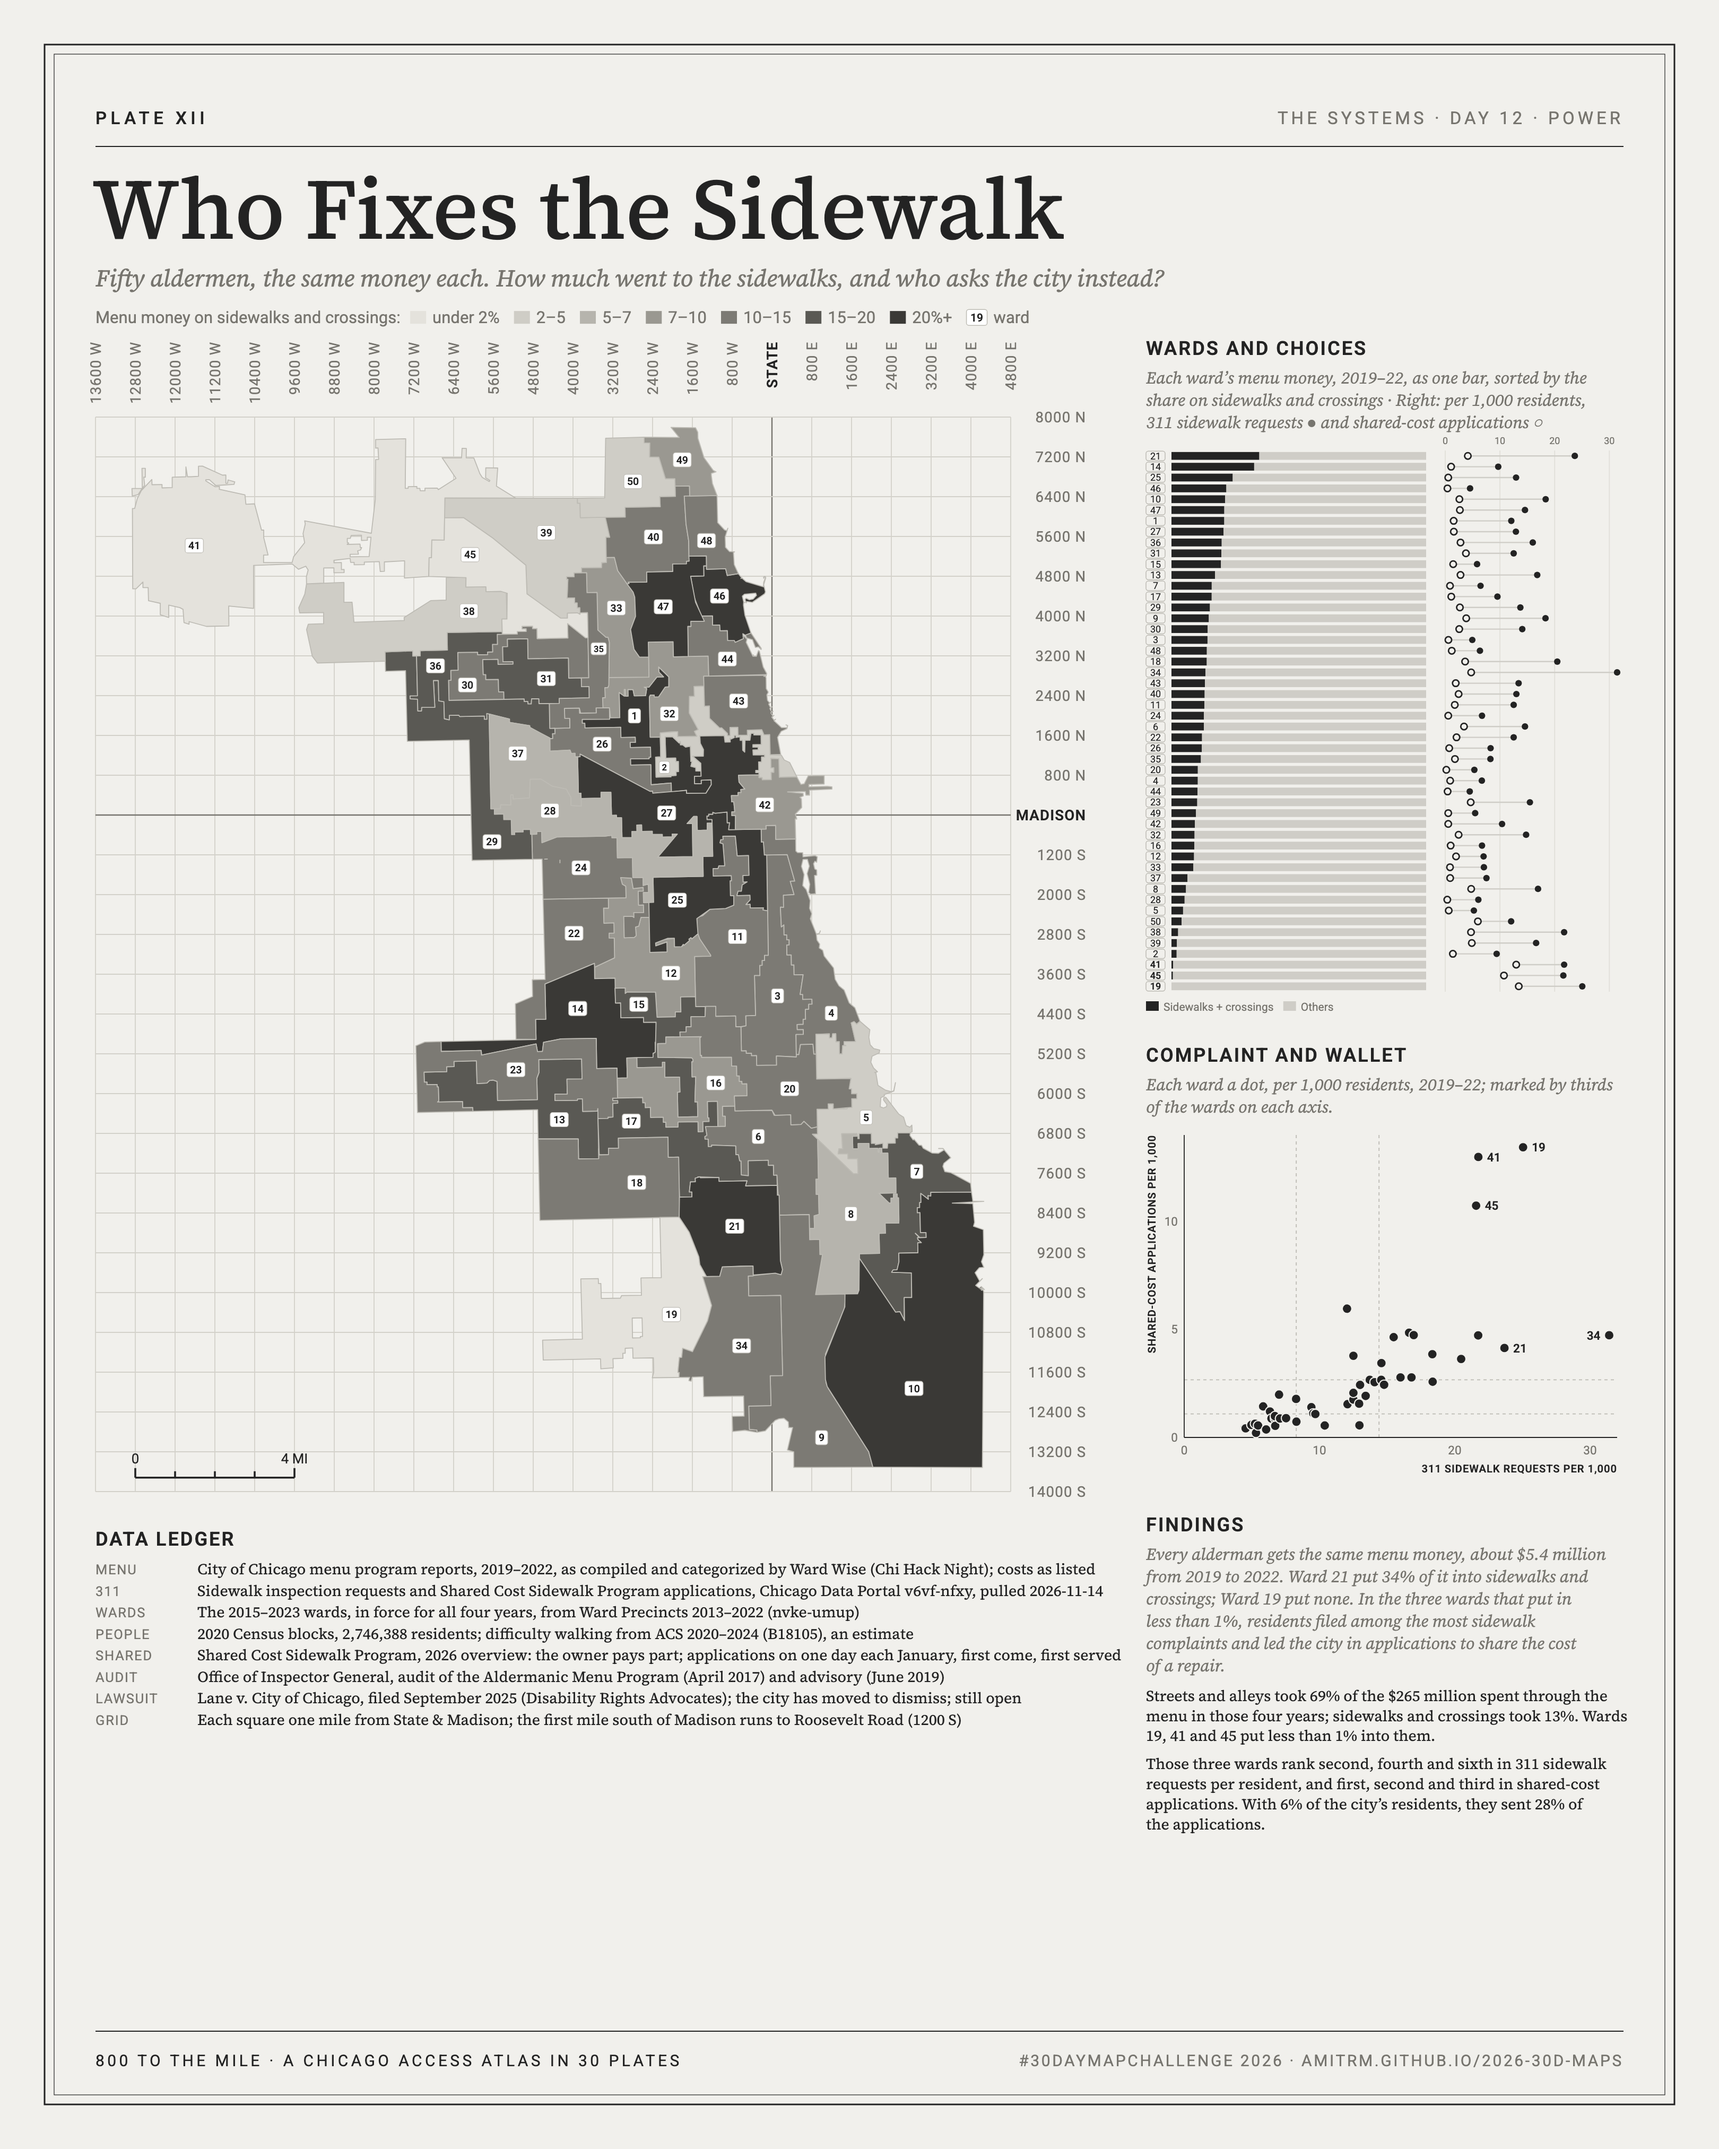
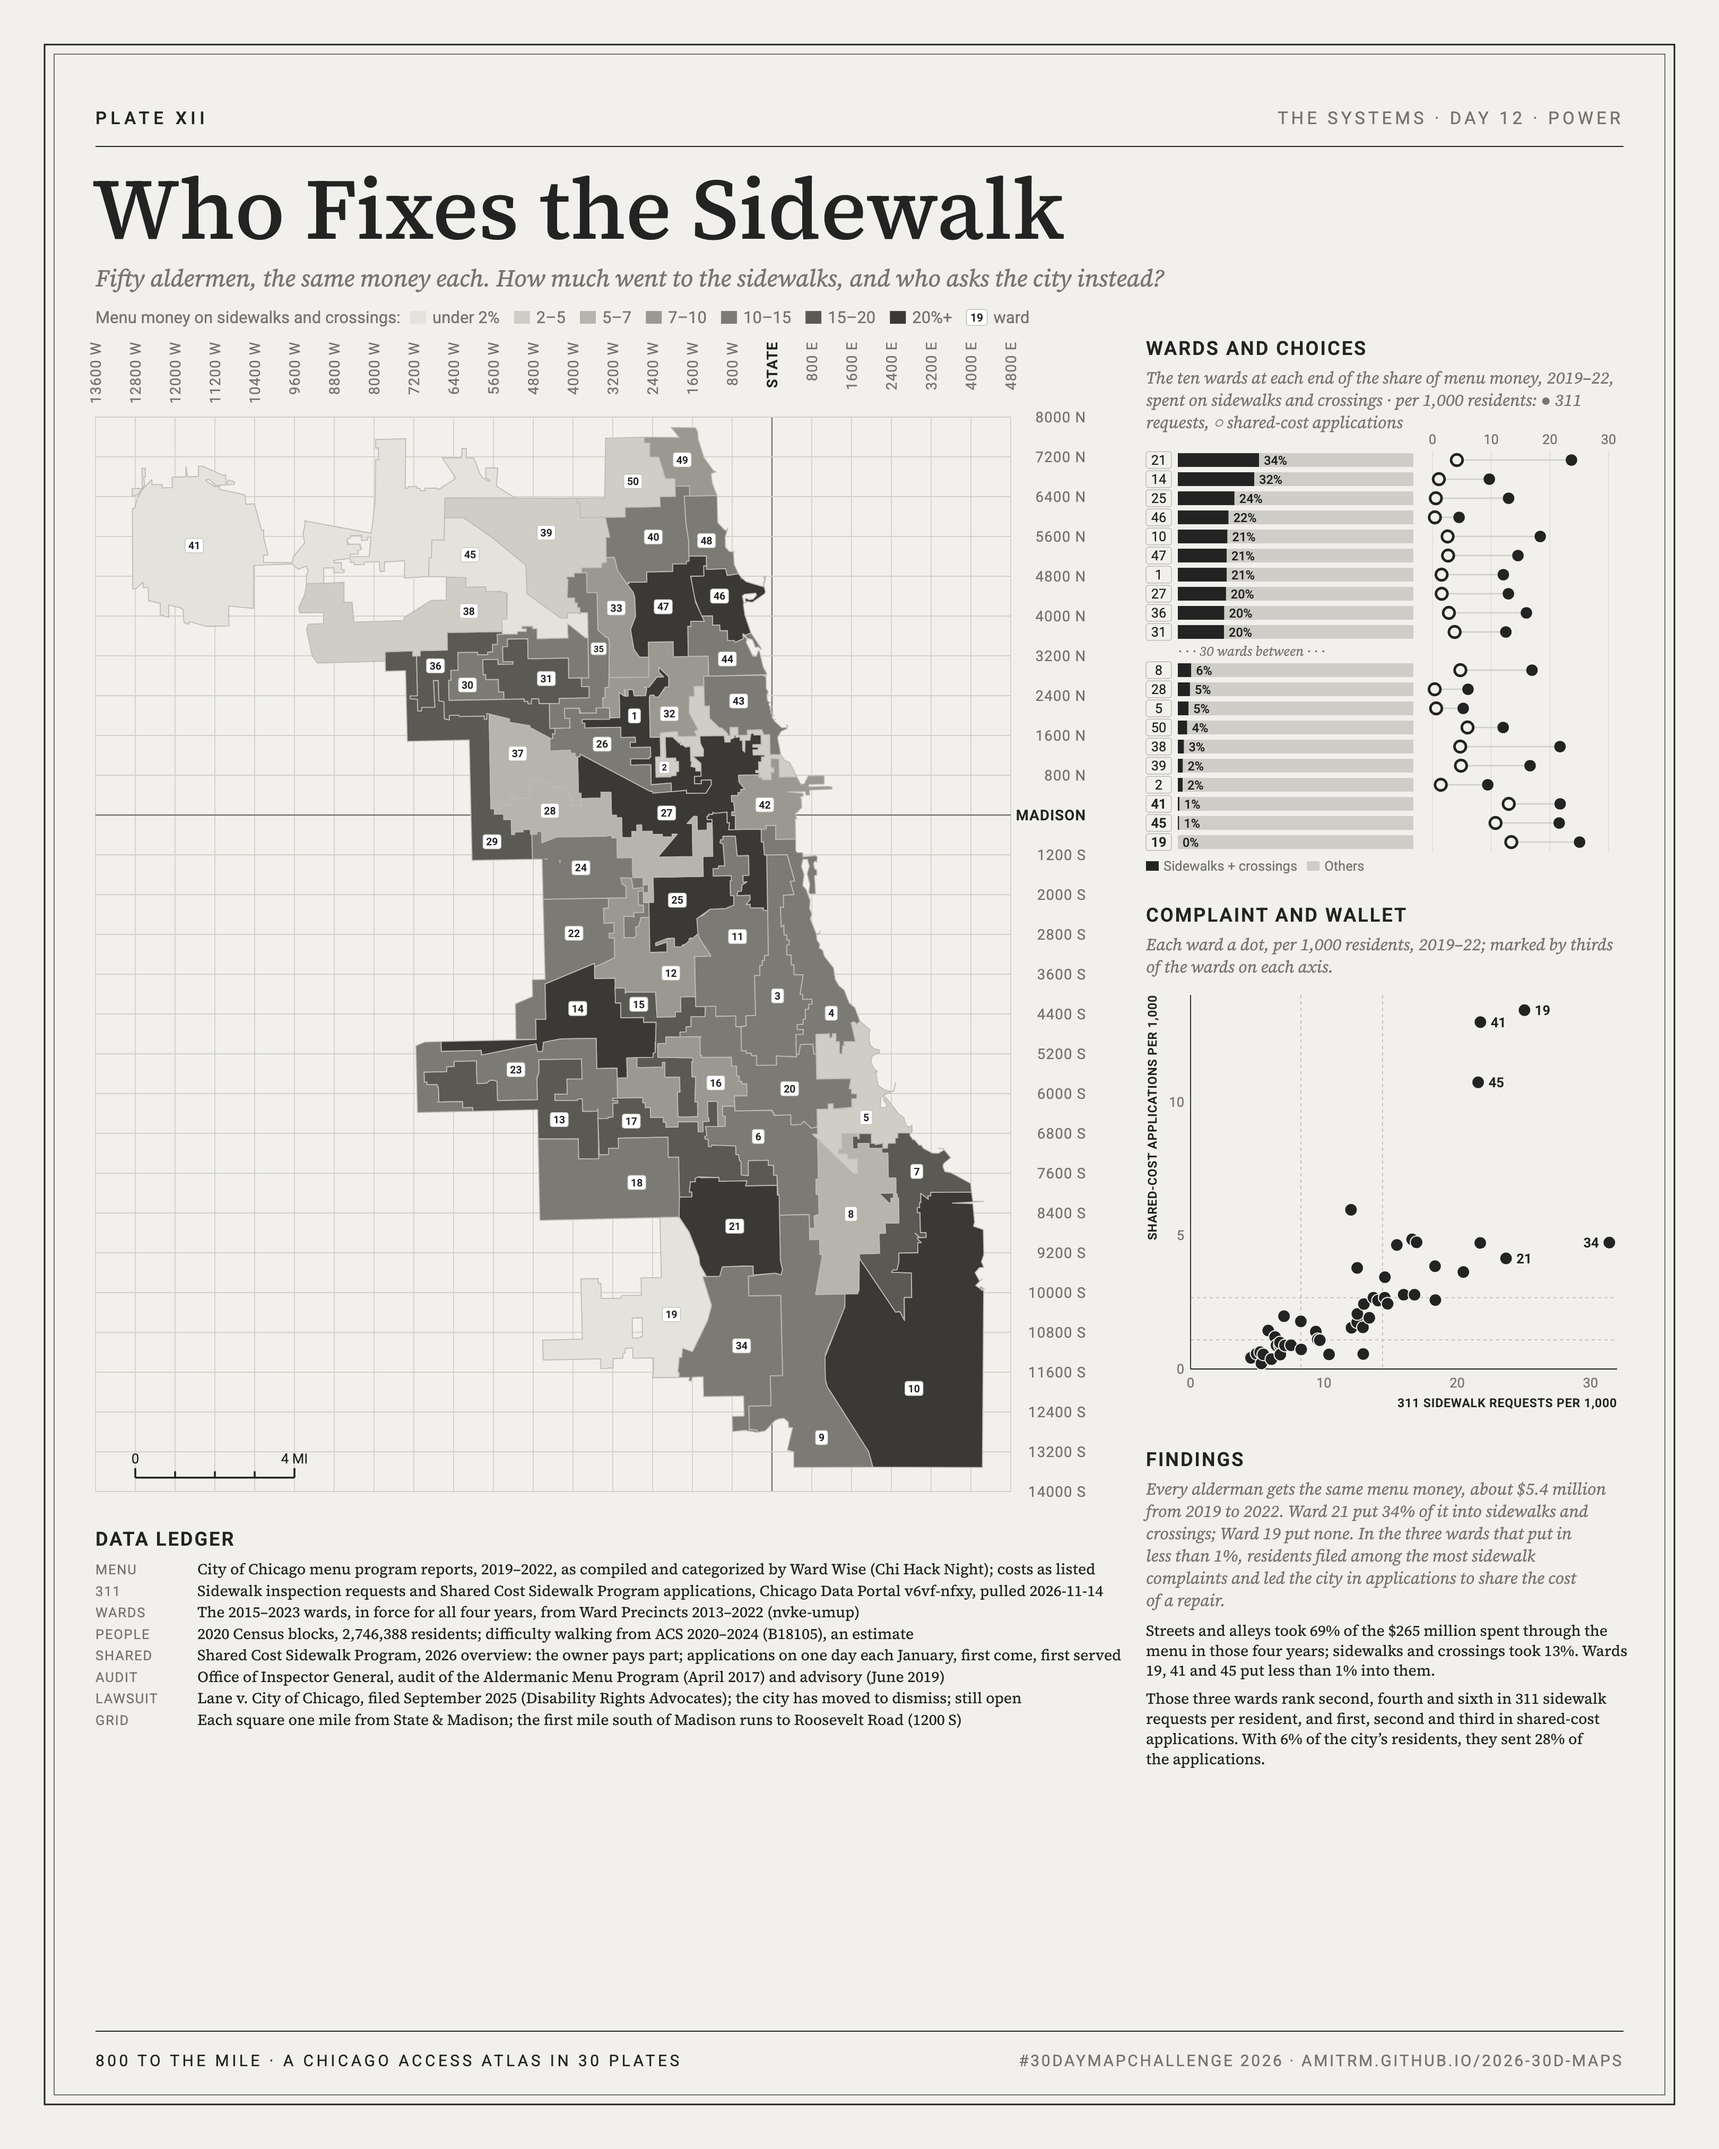
Day 12: plate charts in the page design
Wards and Choices on the plate shows the ten wards at each end with the two spending groups,
boxed ward numbers and the dots; Complaint and Wallet uses the page's design at plate size.

Changed region(s): [[0.6546, 0.1556, 0.9352, 0.5911], [0.6546, 0.56, 0.9352, 0.8711], [0.8728, 0.4356, 0.9352, 0.4667]]

diff --git a/src/plates/day12.js b/src/plates/day12.js
@@ -13,7 +13,7 @@ import { gridLines, formatAddress, toMiles } from '../lib/grid.js';
 // teal on the map and on the chart's sidewalk bars, Stevens' purple-gold in the scatter.
 export const W_COL = 300;
 export const CHART_TITLE = 'Wards and Choices';
-export const CHART_NOTE = 'Each ward’s menu money, 2019–22, as one bar, sorted by the share on sidewalks and crossings · Right: per 1,000 residents, 311 sidewalk requests ● and shared-cost applications ○';
+export const CHART_NOTE = 'The ten wards at each end of the share of menu money, 2019–22, spent on sidewalks and crossings · per 1,000 residents: ● 311 requests, ○ shared-cost applications';
 export const INSET_TITLE = 'Complaint and Wallet';
 // the map's seven classes of menu share (breaks in plate.json: 2, 5, 7, 10, 15, 20%), light to dark
 export const MAP_TONES = ['#E4E2DC', '#CFCDC6', '#B6B4AD', '#9A9891', '#7C7A74', '#5A5954', '#3A3936'];
@@ -211,14 +211,17 @@ export function renderDay12(data, { mode = 'gray', variant = 'plate', palette, c
     // page chart options: width, row, font, cats ('two' | 'three' | 'all'), dots, top (N wards each end)
     // the page chart (chosen 2026-11-14, option B of .private/day12-middle-study): drawn 1:1 in the 259 px
     // column at 10 px, the 10 wards that spent most and the 10 that spent least (user), two spending groups with the
-    // sidewalk share printed, the dots kept. The plate keeps all 50 rows, also in the two groups.
-    const co = isChart ? { width: 253, row: 14, font: 10, cats: 'two', dots: true, top: 10, ...chartOpts } : { cats: 'two', dots: true, top: 0 };
-    const cw = isChart ? co.width : W_COL;
-    const row = isChart ? co.row : 6.8;
-    const cs = isChart ? co.font : 6;
-    const numW = isChart ? Math.round(cs * 1.9) : 12;
+    // sidewalk share printed, the dots kept. The plate (export) uses the same design (user, 2026-11-14),
+    // sized for its 300-wide margin column.
+    const co = isChart
+      ? { width: 253, row: 14, font: 10, cats: 'two', dots: true, top: 10, ...chartOpts }
+      : { width: W_COL, row: 12, font: 8.5, cats: 'two', dots: true, top: 10 };
+    const cw = co.width;
+    const row = co.row;
+    const cs = co.font;
+    const numW = Math.round(cs * 1.9);
     const barX = mx + numW + 4;
-    const barW = isChart ? (co.dots ? Math.round((cw - numW) * 0.52) : cw - numW - 6) : 160;
+    const barW = co.dots ? Math.round((cw - numW) * 0.52) : cw - numW - 6;
     const dotX0 = barX + barW + 12, dotX1 = mx + cw - 2;
     // spending groups (user, 2026-11-14: two, 'Sidewalks + crossings' and 'Others' in the streets' gray);
     // 'three' and 'all' kept for studies
@@ -264,7 +267,7 @@ export function renderDay12(data, { mode = 'gray', variant = 'plate', palette, c
         if (ww > 0.05) out.push(`<rect x="${x.toFixed(2)}" y="${(uy + row * 0.14).toFixed(2)}" width="${ww.toFixed(2)}" height="${(row * 0.72).toFixed(2)}" fill="${co.cats !== 'all' ? fill3[c] : catFill(c)}"/>`);
         x += ww;
       }
-      if (co.cats !== 'all' && isChart) out.push(text(barX + barW * (catVal(w, 'walk') / w.total) + 3, cy + cs * 0.34, pct(w.share), { size: cs * 0.92, fill: C.ink, weight: 500 }));
+      if (co.cats !== 'all') out.push(text(barX + barW * (catVal(w, 'walk') / w.total) + 3, cy + cs * 0.34, pct(w.share), { size: cs * 0.92, fill: C.ink, weight: 500 }));
       if (!co.dots) { if (hooks) out.push('</g>'); uy += row; continue; }
       const a = dx(w.filed1k), b = dx(w.shared1k), r = row * 0.3;
       // colour mode: the row behind the dots takes the ward's colour in the scatter (its bivariate
@@ -279,11 +282,11 @@ export function renderDay12(data, { mode = 'gray', variant = 'plate', palette, c
     // key for the bar
     uy += 6;
     let kx = mx;
-    const ks = isChart ? cs : 7;
+    const ks = cs;
     CATS_USED.forEach((c, i) => {
       const lab = co.cats !== 'all' ? lab3[c] : CAT_LABEL[c];
       const kw = 11 + textWidth(lab, ks) + (isChart ? 10 : 6);
-      if (isChart && kx > mx && kx + kw > mx + cw) { kx = mx; uy += ks + 5; } // wrap the key to the width
+      if (kx > mx && kx + kw > mx + cw) { kx = mx; uy += ks + 5; } // wrap the key to the width
       out.push(`<rect x="${kx}" y="${uy}" width="8" height="6" fill="${co.cats !== 'all' ? fill3[c] : catFill(c)}"${c === 'other' ? ` stroke="${C.frame}" stroke-width="0.5"` : ''}/>`);
       out.push(text(kx + 11, uy + 6, lab, { size: ks, fill: C.pencil }));
       kx += kw;
@@ -309,11 +312,11 @@ export function renderDay12(data, { mode = 'gray', variant = 'plate', palette, c
   }
   const io = { width: 259, height: 250, font: 11, ...insetOpts }; // the page scatter: 1:1 in the 259 px column
   const iw = isInset ? io.width : W_COL;
-  const fs = isInset ? io.font : 7.5;
-  const padL = isInset ? Math.round(io.font * 3.3) : 24, padB = isInset ? 34 : 28;
+  const fs = isInset ? io.font : 8.5; // the plate's scatter: the page's design at the plate's text size
+  const padL = Math.round(fs * 3.3), padB = isInset ? 34 : 28;
   const top0 = isInset ? 8 : ty + noteH + 18;
   const x0 = (isInset ? 0 : mx) + padL, x1 = (isInset ? 0 : mx) + iw - 4;
-  const ph = isInset ? io.height : 190;
+  const ph = isInset ? io.height : 235;
   const y1 = top0, y0 = top0 + ph; // y0 = the axis at the bottom
   const XMAX = 32, YMAX = 14;
   const sq = isInset && io.scale === 'sqrt'; // page option: square-root axes spread the crowded low corner
@@ -335,7 +338,7 @@ export function renderDay12(data, { mode = 'gray', variant = 'plate', palette, c
   out.push(text(x1, y0 + 2 * fs + 7, '311 SIDEWALK REQUESTS PER 1,000', { size: fs * 0.9, anchor: 'end', spacing: 0.3, weight: 600 }));
   const yt = x0 - padL + fs * 0.8;
   out.push(text(yt, y1, 'SHARED-COST APPLICATIONS PER 1,000', { size: fs * 0.9, anchor: 'end', spacing: 0.3, weight: 600, rotate: -90 }));
-  const r = isInset ? io.font * 0.47 : 3;
+  const r = fs * 0.47;
   const named = new Set([...summary.low, summary.top.ward, [...wards].sort((a, b) => b.filed1k - a.filed1k)[0].ward]);
   for (const w of [...wards].sort((a, b) => a.filed1k - b.filed1k)) {
     const cx = SX(Math.min(w.filed1k, XMAX)), cy = SY(Math.min(w.shared1k, YMAX));

diff --git a/src/plates/index.js b/src/plates/index.js
@@ -436,7 +436,7 @@ const d12Story = {
     ['Background', [
       `The CTA runs the trains and the buses. The block between a rider’s front door and the stop belongs to the city, and in Chicago much of what gets fixed on it is chosen ward by ward. Each of the 50 aldermen gets the same sum of “menu” money every year (${d12M(d12.alloc['2019'])} in 2019, ${d12M(d12.alloc['2021'])} from 2021) and picks which streets, alleys, lights and sidewalks in the ward it pays for.`,
       `This plate maps those choices from ${d12.years[0]} to ${d12.years[1]}, the last four full years on one ward map. Each ward is shaded by the share of its menu money that went to sidewalks and crossings.`,
-      'Residents have two other ways to get a sidewalk fixed: a 311 request for an inspection, or an application to the Shared Cost Sidewalk Program, in which the owner pays part of the repair. The Complaint and Wallet chart plots the two against each other, each ward a dot. Wards and Choices shows the ten wards at each end here, and all fifty on the plate. Hover a ward on the map, a row or a dot for its numbers; the same ward lights up in all three.',
+      'Residents have two other ways to get a sidewalk fixed: a 311 request for an inspection, or an application to the Shared Cost Sidewalk Program, in which the owner pays part of the repair. The Complaint and Wallet chart plots the two against each other, each ward a dot. Wards and Choices shows the ten wards at each end; every ward is on the map, with its numbers in the tooltip. Hover a ward on the map, a row or a dot for its numbers; the same ward lights up in all three.',
     ]],
     ['Findings', [
       day12Data.finding,
